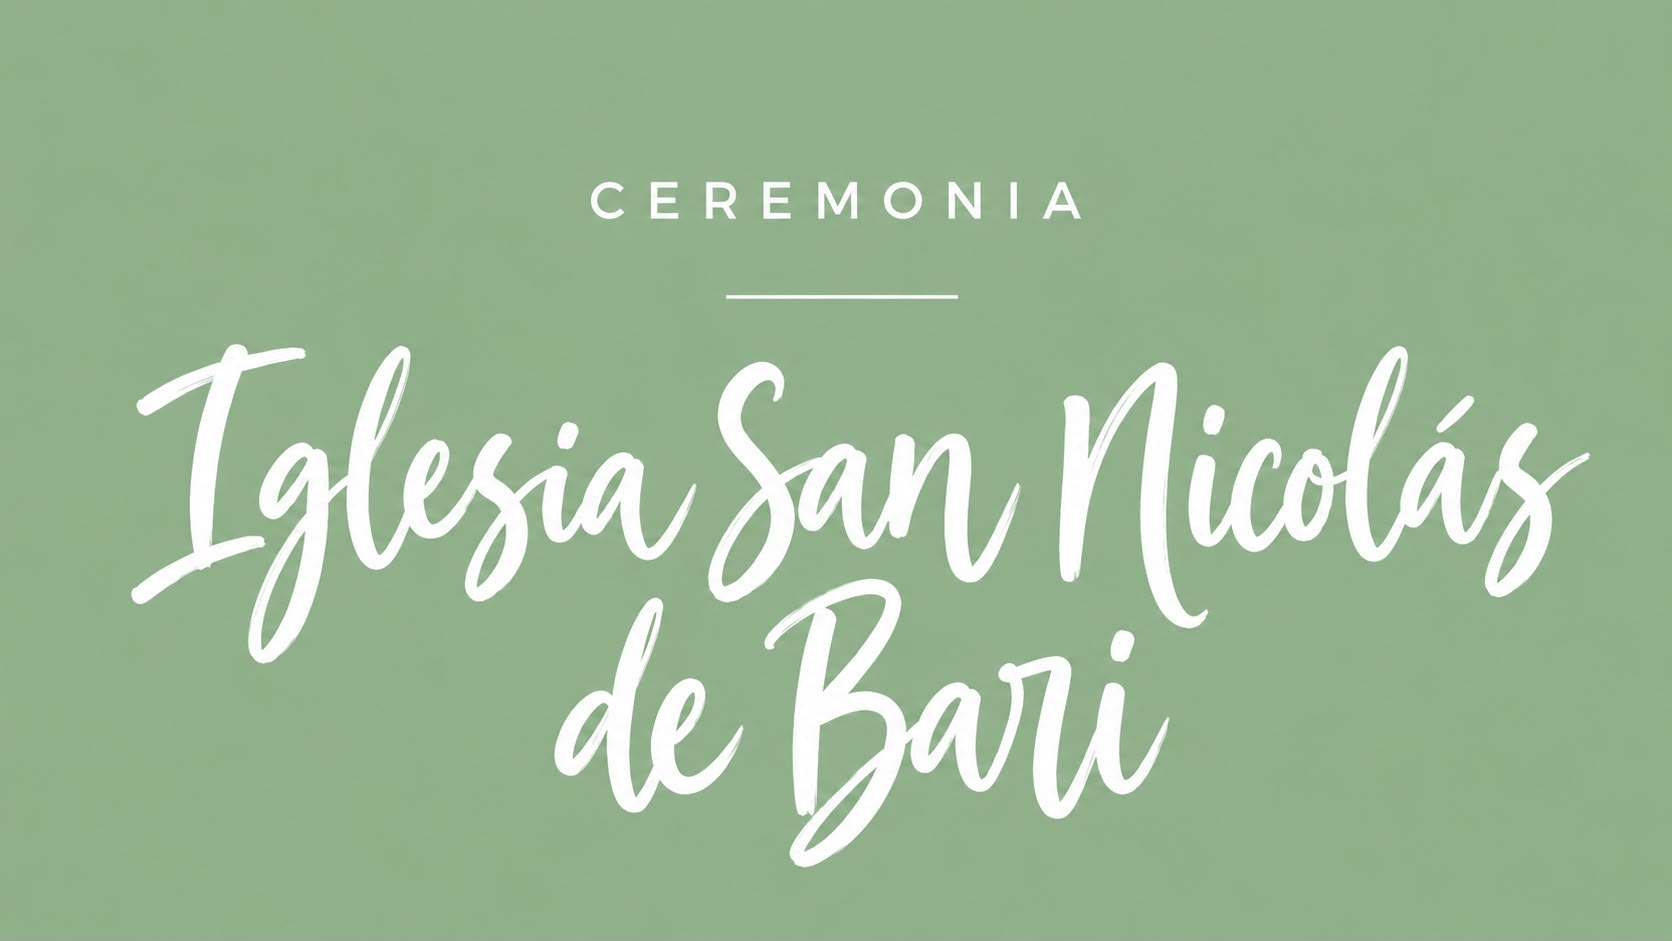
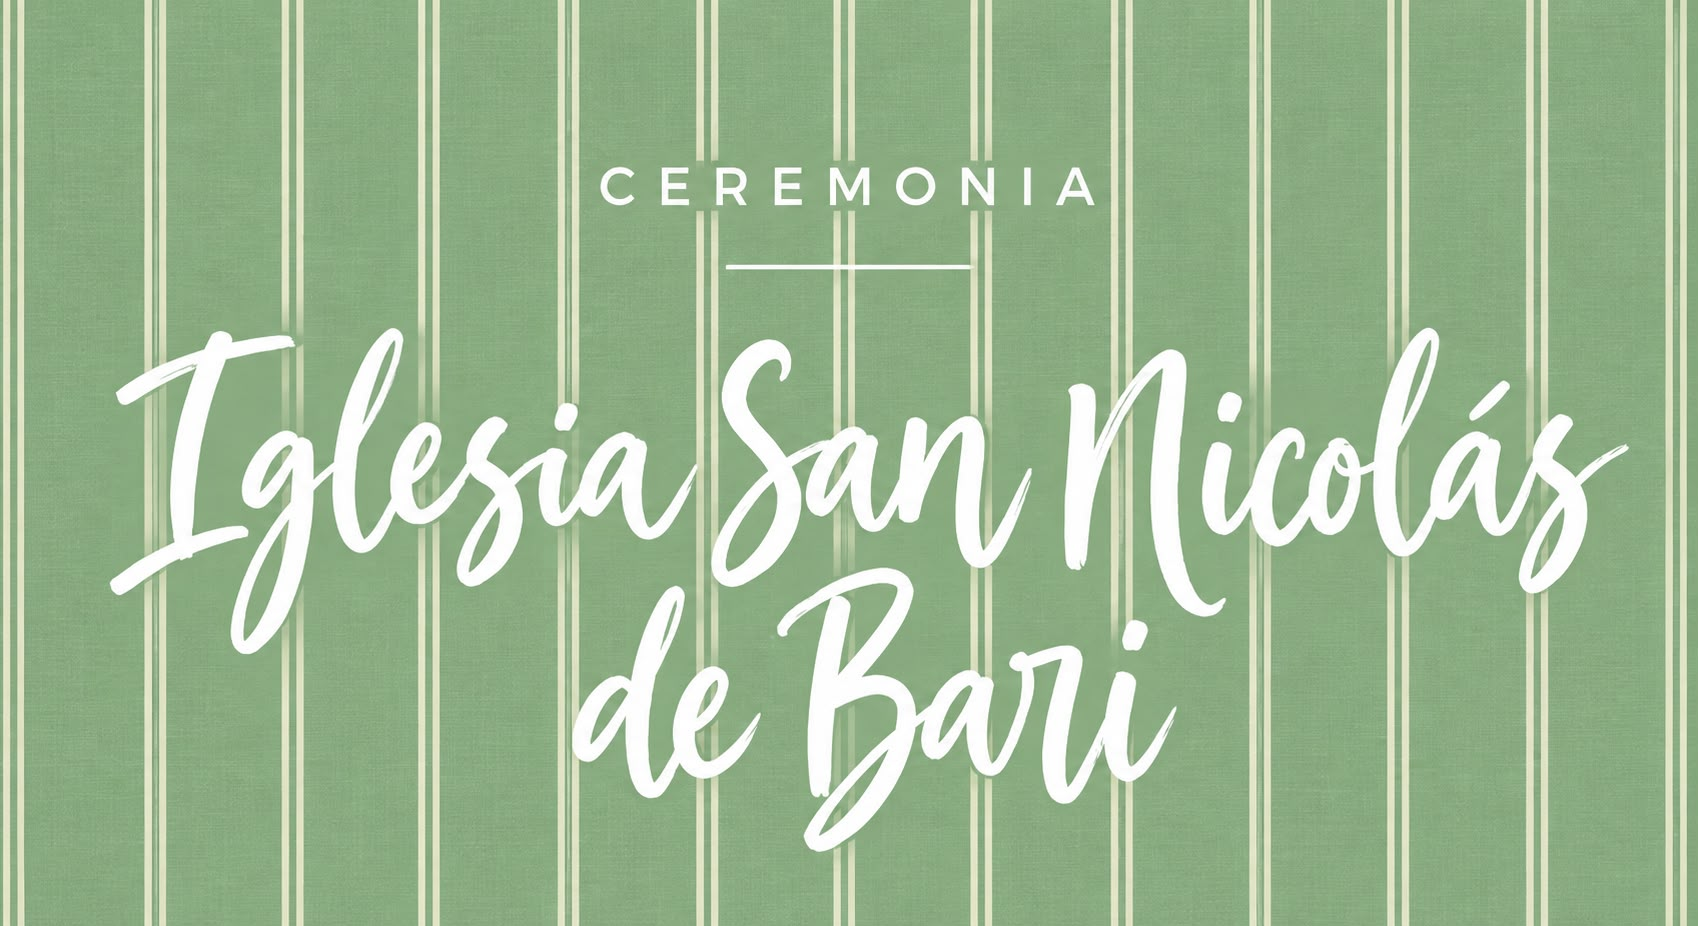
Fondo comun

Changed region(s): [[0.0622, 0.0, 0.9952, 1.0], [0.0, 0.0, 0.0311, 1.0]]

diff --git a/index.html b/index.html
@@ -30,19 +30,21 @@
 
   <!-- 2⃣ CUENTA ATRÁS -->
   <section class="countdown">
+      <img class="countdown-person countdown-person--fernando" src="img/Fernando1.png" alt="" aria-hidden="true">
       <!--<h1>¡Nos casamos!</h1>-->
       <div id="timer">
         <div><span id="days"></span><small> Días</small></div>
         <div><span id="hours"></span><small> Horas</small></div>
         <div><span id="minutes"></span><small> Min</small></div>
       </div>
+      <img class="countdown-person countdown-person--patricia" src="img/Patricia1.png" alt="" aria-hidden="true">
     </section>
 
     <!-- 3⃣ CEREMONIA -->
   <section class="ceremony-image" aria-label="Imagen de la ceremonia"></section>
 
   <section class="ceremony-text">
-    <img src="img/ceremonia-san-nicolas.jpg" alt="Ceremonia: Iglesia San Nicolás de Bari" width="1672" height="941">
+    <img src="img/ImagenCeremonia.jpeg" alt="Ceremonia: Iglesia San Nicolás de Bari" width="1672" height="941">
   </section>
 
   <section class="ceremony-link">
@@ -54,7 +56,7 @@
 
   <!-- TIMELINE -->
   <section id="timeline" class="timeline" aria-label="Timeline">
-      <img src="img/timeline.png" alt="Programa del día de la boda" loading="lazy">
+      <img src="img/timeline.jpg" alt="Programa del día de la boda" loading="lazy">
   </section>
 
   <!-- 4⃣ CELEBRACIÓN -->
@@ -139,15 +141,16 @@
 
   <!-- PREGUNTAS COMUNES -->
   <section class="faq" aria-labelledby="faq-title">
-    <h2 id="faq-title">Preguntas comunes</h2>
+    <h2 id="faq-title">Preguntas frecuentes</h2>
     <div class="faq-list">
       <details>
-        <summary>¿Dónde se celebra la ceremonia?</summary>
-        <p>En la Iglesia San Nicolás de Bari. Encontrarás el enlace al mapa en el apartado «Cómo llegar» de la ceremonia.</p>
+        <summary>¿Cómo puedo llegar a la iglesia?</summary>
+        <p>La mejor opción es ir en taxi/Uber. Pero si necesitais ir en coche la mejor opción es el aparcamiento <a
+                href="https://maps.app.goo.gl/LhsGPzHu6sP9joGe7"><b>Interparking Cano y Cueto</b></a></p>
       </details>
       <details>
-        <summary>¿Habrá autobuses para los invitados?</summary>
-        <p>Sí, la salida será a las 14:00 desde Jardines de Murillo. La primera vuelta será a las 21:00 y la segunda al terminar la fiesta. Habrá paradas en Plaza de Cuba y en Jardines de Murillo.</p>
+        <summary>¿Como llegar a la hacienda?</summary>
+        <p>El lugar de celebración tendrá lugar en la finca Campo Alegre, situada en Útrera. Nuestra recomendación es usar el servicio de autobús que tenemos para ese día. En caso de ir en vehículo personal, la finca dispone de aparcamiento privado. </p>
       </details>
       <details>
         <summary>¿Cómo aviso de una alergia o intolerancia?</summary>
@@ -158,8 +161,8 @@
         <p>Encontrarás el formulario «¿Asistirás?» justo debajo de los hoteles cercanos. ¡Confírmanos lo antes posible para ayudarnos a organizarlo todo!</p>
       </details>
       <details>
-        <summary>¿Dónde puedo ver la playlist de la boda?</summary>
-        <p>Pulsa la tarjeta de Spotify de la sección anterior para abrir «Boda Fernando y Patri» y descubrir la música de nuestra fiesta.</p>
+        <summary>¿Dónde me podre bajar del autobús a la vuelta?</summary>
+        <p>los autobuses realizaran dos paradas a la vuelta, Plaza de Cuba y Jardines de Murillo. Habrá dos horas de salida, a las 22:00 h y a las 00:30H.</p>
       </details>
     </div>
   </section>
@@ -210,6 +213,14 @@
       <button type="submit" class="btn">Enviar</button>
       <p id="rsvp-status" role="status" hidden></p>
     </form>
+  </section>
+
+  <!-- REGALOS -->
+  <section class="gifts" aria-labelledby="gifts-title">
+    <h2 id="gifts-title">Nuestro mejor regalo eres tú</h2>
+    <p>Lo más importante para nosotros es compartir este día contigo. Si además quieres hacernos un regalo, te dejamos nuestros datos. ¡Gracias de corazón!</p>
+    <!-- Sustituir este texto por vuestro IBAN antes de publicar. -->
+    <p class="gifts-iban"><strong>IBAN:</strong> Pendiente de añadir</p>
   </section>
 
   <!-- 6⃣ AGRADECIMIENTO -->

diff --git a/css/style.css b/css/style.css
@@ -1,13 +1,25 @@
 /* ===== RESET BÁSICO ===== */
 :root {
   --verde-ceremonia: #90b08b;
+  --fondo-general: url("../img/FondoImagen.jpeg");
 }
 
 body {
   margin: 0;
   font-family: "Kaushan Script", cursive;
-  color: #fff;
-  background-color: var(--verde-ceremonia);
+  color: #000;
+  background-color: #fdf7eb;
+  isolation: isolate;
+}
+
+/* Una sola capa de fondo para toda la web, sin reiniciarse en cada sección. */
+body::before {
+  content: "";
+  position: fixed;
+  inset: 0;
+  z-index: -1;
+  background: #fdf7eb var(--fondo-general) center / cover no-repeat;
+  pointer-events: none;
 }
 
 /* ===== HERO ===== */
@@ -27,6 +39,8 @@ body {
 
 /* ===== CUENTA ATRÁS ===== */
 .countdown {
+  position: relative;
+  isolation: isolate;
   text-align: center;
   font-family: "Kaushan Script", cursive;
   font-size: 2rem;
@@ -51,6 +65,44 @@ body {
   display: flex;
   justify-content: center;
   gap: 30px;
+}
+
+body > .countdown {
+  padding-left: min(25vw, 220px);
+  padding-right: min(25vw, 220px);
+}
+
+.countdown-person {
+  position: absolute;
+  top: 0;
+  width: min(25vw, 220px);
+  height: 100%;
+  object-fit: contain;
+  pointer-events: none;
+  /* Integra el fondo blanco de los JPEG con el verde de la sección. */
+  mix-blend-mode: multiply;
+}
+
+.countdown-person--fernando {
+  left: 0;
+  object-position: left center;
+}
+
+.countdown-person--patricia {
+  right: 0;
+  object-position: right center;
+}
+
+@media (max-width: 600px) {
+  .countdown #timer {
+    gap: clamp(8px, 2vw, 16px);
+    font-size: clamp(1rem, 4vw, 1.5rem);
+  }
+
+  .countdown #timer > div {
+    display: flex;
+    flex-direction: column;
+  }
 }
 
 /* ===== CEREMONIA ===== */
@@ -136,7 +188,7 @@ body > .buses {
   justify-content: center;
   gap: clamp(20px, 4vw, 56px);
   padding: 40px clamp(20px, 5vw, 80px);
-  background: transparent;
+  background: var(--fondo-general) center / cover no-repeat;
   text-align: left;
 }
 
@@ -181,8 +233,8 @@ body > .buses {
 /* ===== PLAYLIST ===== */
 body > .playlist {
   padding: 64px clamp(20px, 5vw, 80px);
-  background: #fff url("../img/fondoSpotify.jpeg") center / cover no-repeat;
-  color: var(--verde-ceremonia);
+  background: transparent url("../img/fondoSpotify.png") center / auto 100% no-repeat;
+  color: #000;
   text-align: center;
 }
 
@@ -196,7 +248,7 @@ body > .photos {
   align-items: center;
   justify-content: center;
   gap: 24px;
-  background: var(--verde-ceremonia) url("../img/fondoFotos-verde.png") center / cover no-repeat;
+  background: var(--verde-ceremonia) url("../img/fondoFotos.png") center / cover no-repeat;
   /*background-color: var(--verde-ceremonia);
   background-image: url("../img/fondoFotos.jpeg");
   *//*background-size: 88% auto;*//*
@@ -441,8 +493,8 @@ body > .photos {
 /* ===== PREGUNTAS COMUNES ===== */
 body > .faq {
   padding: 64px clamp(20px, 5vw, 80px);
-  background: var(--verde-ceremonia);
-  color: #fff;
+  background: var(--fondo-general) top center / 424px auto repeat;
+  color: #000;
 }
 
 .faq h2 {
@@ -604,6 +656,27 @@ body > .faq {
   margin: 0;
 }
 
+/* ===== REGALOS ===== */
+.gifts {
+  text-align: center;
+  background: var(--fondo-general) top center / 424px auto repeat;
+  color: #000;
+}
+
+.gifts p {
+  max-width: 620px;
+  margin: 20px auto;
+  line-height: 1.7;
+}
+
+.gifts .gifts-iban {
+  box-sizing: border-box;
+  padding: 16px 24px;
+  border: 1px solid var(--verde-ceremonia);
+  border-radius: 12px;
+  overflow-wrap: anywhere;
+}
+
 /* ===== AGRADECIMIENTO ===== */
 .thanks {
   text-align: center;
@@ -700,6 +773,20 @@ body > footer {
   .buses-icon {
     min-height: 0;
   }
+}
+
+/* Las secciones dejan ver el fondo continuo; se conservan las ilustraciones principales. */
+body > section:not(.hero):not(.ceremony-image):not(.celebration-image):not(.countdown):not(.ceremony-link):not(.celebration-link):not(.playlist),
+body > footer {
+  background: transparent;
+  color: #000;
+}
+
+/* Fondo beige para el contador y los enlaces de ubicación. */
+body > section.countdown,
+body > section.ceremony-link,
+body > section.celebration-link {
+  background: #fdf7eb url("../img/FondoBeis.PNG") center / cover no-repeat;
 }
 
 @media print {
